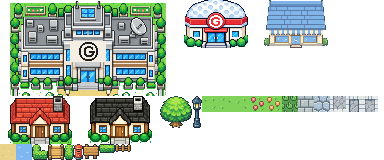
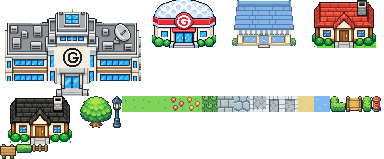
研究所：絵の庭・並木・植木を除いて建物本体だけに（9×6）。前庭はゲーム側の生垣タイルで
Claude-Session: https://claude.ai/code/session_018VDSYCPciSbMvR8kKaJDnr

diff --git a/js/data.js b/js/data.js
@@ -78,7 +78,7 @@ const DATA = {
   },
   WALKABLE: new Set(['G', 'T', 'F', 'P', 'B', 'D', 'I', 'Q', '.', 'm', 'c']),
   // 置き物（タイル画像の名前）：w,h はマス数、door は左上からのドアの位置（そこだけ通れる）
-  OBJECTS: { house: { w: 5, h: 3, door: [2, 2] }, house2: { w: 5, h: 3, door: [2, 2] }, heal: { w: 5, h: 3, door: [2, 2] }, shop: { w: 5, h: 3, door: [2, 2] }, lab: { w: 11, h: 6, door: [5, 5] } },
+  OBJECTS: { house: { w: 5, h: 3, door: [2, 2] }, house2: { w: 5, h: 3, door: [2, 2] }, heal: { w: 5, h: 3, door: [2, 2] }, shop: { w: 5, h: 3, door: [2, 2] }, lab: { w: 9, h: 6, door: [4, 5] } },
   VOID_ART: 'wallin',
 
   MAPS: {
@@ -113,7 +113,7 @@ const DATA = {
         'WGGGGGGGGGGGGGGGGPGW',
         'WGGGGGGGGGGGGGGGGPGW',
         'WGGGGGGGGGGGGGGGGPGW',
-        'WGGGGGGGGGGGGGGGGPGW',
+        'WGGGGHHHHGHHHHGGGPGW',
         'WGGGPPPPPPPPPPPPPPGW',
         'WGGGGGGGGPGGGGGGGGGW',
         'WGGGGGGGGPGGGGGGGGGW',
@@ -126,7 +126,7 @@ const DATA = {
         'WWWWWWWWWWWWWWWWWWWW',
       ],
       objects: [
-        { sprite: 'lab', x: 4, y: 2 },
+        { sprite: 'lab', x: 5, y: 2 },
         { sprite: 'house', x: 1, y: 9 }, { sprite: 'shop', x: 14, y: 9 },
         { sprite: 'heal', x: 1, y: 13 },
       ],
